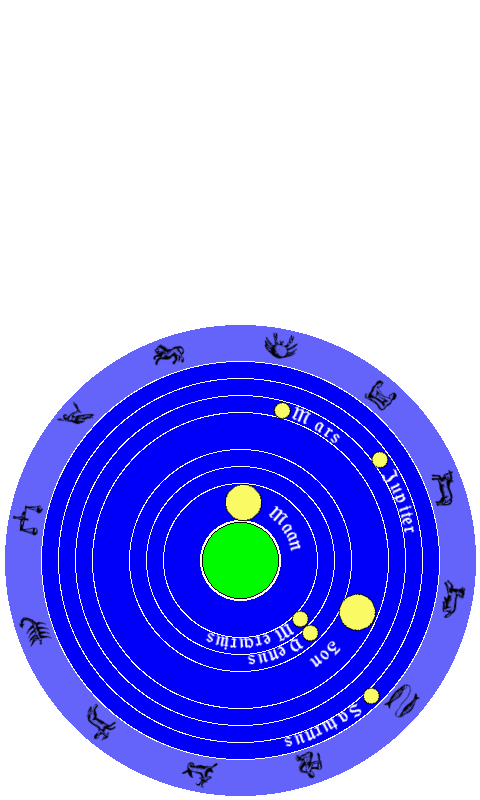
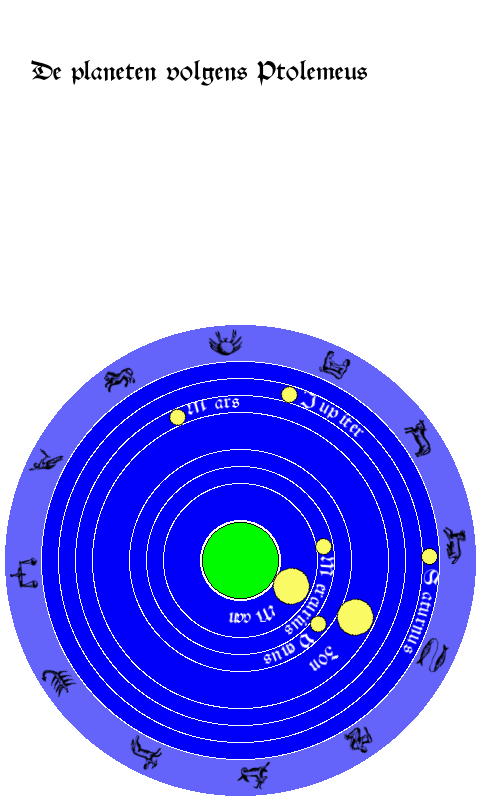
Tekstblok begin

diff --git a/ptolemeus.py b/ptolemeus.py
@@ -35,9 +35,10 @@ with open('orbits.csv', 'r') as orbitfile:
 print(ip,' planeten gevonden')
        
 # Fonts
-schwabacher = ImageFont.truetype("lib/yswab.otf",size=20)
-kapitaal    = ImageFont.truetype("lib/Yinit.otf",size=80)
-astrologicus = ImageFont.truetype("lib/Astrologicus.ttf",size=40)
+schwabacher   = ImageFont.truetype("lib/yswab.otf",size=20)
+schwabacher28 = ImageFont.truetype("lib/yswab.otf",size=28)
+kapitaal      = ImageFont.truetype("lib/Yinit.otf",size=80)
+astrologicus  = ImageFont.truetype("lib/Astrologicus.ttf",size=40)
 
 # Sterrenbeelden vanaf lentepunt met icoon uit Astrologicus font
 sterrenbeelden = {'Ram':'A','Stier':'B','Tweelingen':'C','Krab':'D',
@@ -82,7 +83,9 @@ def teken_tekst(straal,hoek,d,tekst):
       ikoon.paste(lbeeld_gedraaid,(int(sfeer_x+x-lbox/2),
                                    int(sfeer_y-y-lbox/2)),mask)
       h += 360.0*1.2*lt/omtrek
-  
+
+# Teken de dierenriem. Afstand tussen sterrenbeelden is 30 graden.
+# Alle sterrenbeelden worden gedraaid en in de bovenste sfeer getekend.
 def teken_dierenriem(straal,phi,d):
    sb = 100 # 100 pixels voor sterrenbeeld
    isterrenbeeld = 1
@@ -104,6 +107,13 @@ def teken_dierenriem(straal,phi,d):
                                          int(sfeer_y-y-sb/2)),mask)
       isterrenbeeld += 1
 
+def beschrijving(tekst):
+    tekstblok = Image.new("RGBA", (400,400), (0, 0, 0, 0))
+    zin = ImageDraw.Draw(tekstblok)
+    zin.text((200, 80), tekst, anchor="ms", fill=(0,0,0), font=schwabacher28)
+    mask = tekstblok.split()[3]
+    ikoon.paste(tekstblok,(0,0,400,400),mask)
+   
 # Epicykel geeft de ware anomalie, de hoek van een planeet ten opzichte van het
 # lentepunt gezien vanuit de Aarde, berekend met Ptolemaeaus epicykels.
 #
@@ -198,7 +208,8 @@ for ip in planeet:
 w = 36
 r += w+1
 teken_dierenriem(r,LMST*360,w)
-   
+beschrijving("De planeten volgens Ptolemeus")
+
 ikoon.save('ptolemeus.png')
 ikoon.show()
 # ikoon_gedraaid = ikoon.rotate((270), expand=True,center=(ikoon.width/2,ikoon.height/2))
